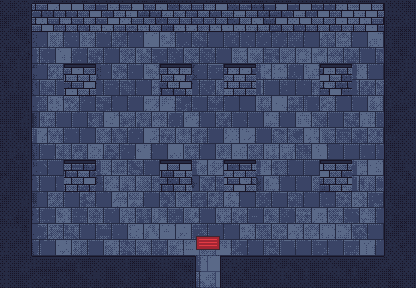
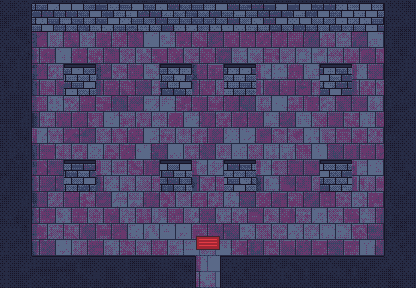
US-8B21c: arte delle sotto-aree
build_interni.py: stili cripta, tempio, grotta (roccia viva e acqua di marea
'~'), radura (erba e radici), nebbia. Arredi nuovi: sarcofago, altare, roccia,
sigillo luminoso a terra, cornice di porta, con piani inclinati verso la luce. I
sei interni dei varchi con il loro stile e i loro arredi.

Corretto un difetto di US-8B18d visto a schermo: tappeti e sigillo stavano sotto
l'immagine del pavimento. Prova a schermo in arte/revisione/varchi_contenuto.png
e interni_in_gioco.png. 993 test, validate 0.

Claude-Session: https://claude.ai/code/session_014ycMSkFAn8ixUvbSfrqtAR

Changed region(s): [[0.0625, 0.0938, 0.9375, 0.9062], [0.4688, 0.875, 0.5312, 1.0]]

diff --git a/tools/art/build_interni.py b/tools/art/build_interni.py
@@ -62,7 +62,24 @@ STILI = {
     "sotterraneo": {"pavimento": ("lastre", ["navy", "slate_d", "slate_d", "slate"]),
                     "parete": ("pietra", ["navy", "slate_d", "slate"], ["ink"]),
                     "cima": ["ink", "navy"]},
+    # sotto-aree dietro i varchi (US-8B21c)
+    "cripta": {"pavimento": ("lastre", ["navy", "slate_d", "purple_d", "slate"]),
+               "parete": ("pietra", ["purple_d", "slate_d", "slate"], ["ink"]),
+               "cima": ["ink", "navy"]},
+    "tempio": {"pavimento": ("lastre", ["brown_d", "brown", "tan", "tan"]),
+               "parete": ("pietra", ["brown_d", "brown", "tan"], ["brown_dd"]),
+               "cima": ["brown_dd", "brown_d"]},
+    "grotta": {"pavimento": ("roccia", ["navy", "slate_d", "teal_d", "slate"]),
+               "parete": ("roccia", ["teal_d", "slate_d", "slate"], ["navy"]),
+               "cima": ["ink", "navy"]},
+    "radura": {"pavimento": ("erba", ["green_d", "green_m", "green_m", "green"]),
+               "parete": ("radici", ["brown_dd", "brown_d", "brown"], ["green_d"]),
+               "cima": ["teal_d", "green_d"]},
+    "nebbia": {"pavimento": ("lastre", ["slate", "grey", "grey_l", "grey_l"]),
+               "parete": ("nebbia", ["grey", "grey_l", "white"], ["grey"]),
+               "cima": ["slate", "grey"]},
 }
+ACQUA = ["navy", "blue_d", "blue_d", "blue"]          # '~': l'acqua della marea
 
 
 def tavolozza():
@@ -112,7 +129,10 @@ def pavimento(tipo, yy, xx, rng):
         v = 0.55 + (hash2(cx, cy, 100) / 100.0 - 0.5) * 0.4 + (rumore(H, W, 3, rng) - 0.5) * 0.2
         v = np.where(((xx + o) % lato == 0) | (yy % lato == 0), v + 0.15, v)
         return np.where(((xx + o) % lato == lato - 1) | (yy % lato == lato - 1), 0.02, v)
-    # terra battuta con paglia
+    if tipo == "roccia":                                  # roccia viva, con le crepe
+        v = 0.5 + (rumore(H, W, 6, rng) - 0.5) * 0.45 + (rumore(H, W, 2, rng) - 0.5) * 0.2
+        return np.where(rumore(H, W, 4, rng) > 0.82, 0.05, v)
+    # terra battuta con paglia, erba con i fili (in interno())
     v = 0.5 + (rumore(H, W, 9, rng) - 0.5) * 0.3 + (rumore(H, W, 2, rng) - 0.5) * 0.15
     return v
 
@@ -147,6 +167,17 @@ def parete(tipo, yy, xx, rng):
         v = np.where((ly - CAPO) % bh == 0, v + 0.2, v)
         seconda = ((ly - CAPO) % bh == bh - 1) | ((xx + o) % bw == bw - 1)
         return v, seconda
+    if tipo == "roccia":                                  # parete di roccia: massi senza malta, crepe scure
+        v = 0.55 + (rumore(H, W, 4, rng) - 0.5) * 0.5 - (ly - CAPO) / T * 0.2
+        return v, rumore(H, W, 3, rng) > 0.8
+    if tipo == "radici":                                  # radici verticali intrecciate, muschio
+        o = (rumore(H, W, 6, rng) * 6).astype(int)
+        k = (xx + o) % 5
+        v = 0.2 + 0.7 * np.sin(np.pi * (k + 0.5) / 5.0) - (ly - CAPO) / T * 0.2
+        return v, rumore(H, W, 5, rng) > 0.72
+    if tipo == "nebbia":                                  # nebbia che sale: niente pietra, solo grigio che sfuma
+        v = 0.55 + (rumore(H, W, 8, rng) - 0.5) * 0.6 + (ly - CAPO) / T * 0.2
+        return v, np.zeros((H, W), bool)
     # scaffali di libri: montanti ogni 32, ripiani ogni 9, dorsi colorati di 2-3 pixel
     rip = (ly - CAPO) % 9
     v = np.where(rip >= 7, np.where(rip == 7, 0.9, 0.35), 0.1)          # ripiano: bordo in luce, poi legno
@@ -164,7 +195,8 @@ def interno(doc, rng, C):
     mappa = doc["mappa"]
     h, w = len(mappa), len(mappa[0])
     pav = np.array([[ch in PAVIMENTO for ch in r] for r in mappa])
-    muro = ~pav
+    acqua = np.array([[ch == "~" for ch in r] for r in mappa])
+    muro = ~pav & ~acqua
     vicino = np.zeros_like(pav)                           # un pavimento entro 2 caselle: cima del muro
     for dy in range(-2, 3):
         for dx in range(-2, 3):
@@ -183,6 +215,7 @@ def interno(doc, rng, C):
     yy, xx = np.mgrid[0:H, 0:W]
     cy, cx = yy // T, xx // T
     p_pav = pav[cy, cx]
+    p_acqua = acqua[cy, cx]
     p_fronte = fronte[cy, cx] & (yy % T >= CAPO)
     p_cima = muro[cy, cx] & vicino[cy, cx] & ~p_fronte
     if uscita and uscita[3] == 1:                          # porta nel muro a sud: la casella si apre
@@ -201,7 +234,7 @@ def interno(doc, rng, C):
     # --- pavimento: ombra del muro a ovest (luce da sinistra) e un filo d'ombra lungo tutti i muri ---
     tipo_p, rampa_p = st["pavimento"]
     vp = pavimento(tipo_p, yy, xx, rng)
-    non_pav = ~p_pav
+    non_pav = ~p_pav & ~p_acqua                           # i muri fanno ombra, l'acqua no
     ombra = np.zeros((H, W), bool)
     for k in range(1, 6):
         ombra |= sposta(non_pav, 0, k)
@@ -218,6 +251,16 @@ def interno(doc, rng, C):
         paglia = p_pav & (rng.rand(H, W) < 0.012) & ~ombra
         for k in range(3):
             img[sposta(paglia, 0, k) & p_pav] = C["amber"] if k == 1 else C["tan"]
+    if tipo_p == "erba":                                  # fili d'erba in piedi, la punta in luce
+        fili = p_pav & (rng.rand(H, W) < 0.02) & ~ombra
+        img[fili & p_pav] = C["green_m"]
+        img[sposta(fili, -1, 0) & p_pav] = C["green"]
+    if p_acqua.any():                                     # l'acqua: increspature e schiuma sul bordo
+        va = 0.45 + (rumore(H, W, 5, rng) - 0.5) * 0.3
+        va = np.where((yy + (rumore(H, W, 8, rng) * 6).astype(int)) % 7 == 0, va + 0.35, va)
+        colora(img, p_acqua, va, ACQUA, C)
+        riva = p_acqua & (sposta(p_pav, 1, 0) | sposta(p_pav, -1, 0) | sposta(p_pav, 0, 1) | sposta(p_pav, 0, -1))
+        img[riva] = C["grey_l"]
 
     # --- passaggi '+': una soglia di legno di traverso ---
     for y, r in enumerate(mappa):
@@ -242,7 +285,7 @@ def interno(doc, rng, C):
     p_cima_tutta = p_cima | (fronte[cy, cx] & (yy % T < CAPO))
     vc = 0.4 + (rumore(H, W, 6, rng) - 0.5) * 0.15
     colora(img, p_cima_tutta, vc, st["cima"], C)
-    dentro = p_pav | p_fronte
+    dentro = p_pav | p_fronte | p_acqua
     tocca = sposta(dentro, 1, 0) | sposta(dentro, -1, 0) | sposta(dentro, 0, 1) | sposta(dentro, 0, -1)
     img[p_cima_tutta & tocca] = C["ink"]
     tocca2 = (sposta(dentro, 2, 0) | sposta(dentro, -2, 0) | sposta(dentro, 0, 2) | sposta(dentro, 0, -2))

diff --git a/tools/art/forge3d/arredi.py b/tools/art/forge3d/arredi.py
@@ -3,13 +3,15 @@ edifici. Misure in unita' (32 per casella, size = scala); origine al centro del 
 larg x prof caselle, a terra, il davanti guarda +y (come creatures.edificio). La profondita' del modello e' divisa per
 il seno della camera (SENO_CAMERA): una casella di profondita' a schermo = 32 / 0.53 unita' nel modello.
 """
+import math
 import random
 
 from .creatures import SENO_CAMERA
 from .rig import Rig
 
 P = 1.0 / SENO_CAMERA
-ALTEZZA = {"scaffale": 56, "camino": 56, "forgia": 56, "letto": 24, "bancone": 40, "alambicco": 44}  # sopra il sedime
+ALTEZZA = {"scaffale": 56, "camino": 56, "forgia": 56, "letto": 24, "bancone": 40, "alambicco": 44,
+           "cornice_porta": 52}                                   # sopra il sedime
 MURO = 48                  # contro il muro nord niente sale oltre z 48: la cima della parete (a schermo una casella)
 
 
@@ -133,6 +135,38 @@ def arredo(kind, larg, prof, seed=1, size=1.0):
         box((W / 2 - 3, D / 2 - 4, 0.5), (0, cy, 3), "cloth_red", su)
         box((W / 2 - 7, D / 2 - 9, 0.6), (0, cy, 3.3), "cloth_yellow", su)
         box((W / 2 - 9, D / 2 - 12, 0.7), (0, cy, 3.6), "cloth_red", su)
+    elif kind == "sarcofago":                                         # cassa di pietra, coperchio scolpito
+        su = (-16, 0, 0)                                              # piani inclinati verso la luce (piatti: scuri)
+        box((W / 2 - 4, D / 2 - 8, 8), (0, cy, 8), "stone")
+        box((W / 2 - 3, D / 2 - 7, 2), (0, cy, 17.5), "stone_light", su)
+        box((W / 2 - 10, D / 2 - 12, 1.4), (0, cy, 20), "stone_light", su)
+        r.part("a", "ellipsoid", (4.5, 4, 3), (-W / 2 + 12, cy, 22), mat="bone")       # la testa scolpita
+    elif kind == "altare":                                            # blocco di pietra, drappo, due candele
+        su = (-16, 0, 0)
+        box((W / 2 - 4, D / 2 - 8, 10), (0, cy, 10), "stone_light")
+        box((W / 2 - 2, D / 2 - 6, 1.6), (0, cy, 21), "stone_light", su)
+        box((5, D / 2 - 5.5, 0.6), (0, cy, 22.8), "cloth_red", su)
+        for sx in (-1, 1):
+            cyl((1.6, 1.6, 3), (sx * (W / 2 - 8), cy - 4, 25.6), "cloth_white")
+            r.part("a", "ellipsoid", (1.2, 1.2, 2.2), (sx * (W / 2 - 8), cy - 4, 31), mat="fire")
+    elif kind == "roccia":                                            # massi con un po' di muschio
+        r.part("a", "ellipsoid", (11, 8, 9), (-2, cy, 8), mat="stone")
+        r.part("a", "ellipsoid", (7, 6, 6), (7, cy + 4, 5), mat="stone")
+        r.part("a", "ellipsoid", (6, 4, 2), (-4, cy - 2, 16), mat="leaf_dark")
+    elif kind == "sigillo":                                           # cerchio di glifi a terra che brilla
+        su = (-16, 0, 0)                                              # inclinato verso la luce: piatto esce scuro
+        for raggio, z, mat in ((28, 0.4, "glow_cyan"), (25, 0.8, "stone"), (14, 1.1, "glow_cyan"), (12, 1.4, "stone")):
+            r.part("a", "cylinder", (raggio, (raggio - 2) * P * 0.7, 0.3), (0, cy, z + 2), mat=mat, rot=su)
+        for k in range(6):
+            a = k * math.pi / 3
+            box((1.8, 1.8 * P, 0.3), (math.cos(a) * 19, cy + math.sin(a) * 18 * P * 0.7, 3.8), "glow_cyan", su)
+    elif kind == "cornice_porta":                                     # una porta di scena senza muro (Frontiera)
+        for sx in (-1, 1):
+            box((2, 3, 22), (sx * 10, cy, 22), "intonaco_bianco")
+        box((12, 3, 2), (0, cy, 45), "intonaco_bianco")
+        box((8, 1, 21), (0, cy, 22), "shadow_mat")
+        for sx in (-1, 1):
+            box((1.0, 1.2, 21), (sx * 7.6, cy + 0.4, 22), "glow_purple")
     else:
         raise ValueError(f"arredo sconosciuto: {kind}")
     return r

diff --git a/CLAUDE.md b/CLAUDE.md
@@ -302,13 +302,13 @@ PR #5). Il dettaglio di ogni fase e' in `progress.txt` e nei PRD di `006_PRD/`.
   pareti, mondo generato (seed 6) con modalita' luminosa/cupa, mondo unico nel gioco (US-8B12..g:
   caricatore, regione dalla posizione, NPC, collisioni, sottosuolo, contenuto dei layout), libro (US-8B73),
   edifici di citta', villaggi e torri con le porte verso i 14 interni (US-8B18a/b), interni disegnati e
-  arredati (US-8B18c/d), varchi delle sotto-aree come ingressi (US-8B21a).
+  arredati (US-8B18c/d), varchi delle sotto-aree come ingressi con il loro contenuto e la loro arte (US-8B21a/b/c).
   PRD `prd-fase-8b-arte.md`, story aperte in `prd.json`.
 - Fase 12 — Atto II/III e Mondo vivo: **PIANIFICATA**. PRD `prd-fase-12-atto-2-3.md`,
   `prd-fase-12-mondo-vivo.md`.
 
-**Lavoro corrente** (vedi `006_PRD/prossimi-passi.md` e `prd.json`): varchi delle sotto-aree come ingressi
-(US-8B21a/b), poi barca (US-8B91), volo (US-8B93) e accesso alla Frontiera (US-8B95), decisi il 2026-10-26.
+**Lavoro corrente** (vedi `006_PRD/prossimi-passi.md` e `prd.json`): barca (US-8B91), volo (US-8B93) e accesso
+alla Frontiera (US-8B95), decisi il 2026-10-26.
 
 ## Decisioni prese
 

diff --git a/006_PRD/prossimi-passi.md b/006_PRD/prossimi-passi.md
@@ -29,9 +29,9 @@ sotto-aree, le **icone** degli oggetti, e nessuno sa ancora **volare**.
 
 ## 2. Ordine delle story
 
-1. **US-8B21c Arte delle sotto-aree**: stili e arredi nuovi per i sei interni dei varchi. Fatte (2026-10-26) la
-   US-8B21a (i sei varchi sono ingressi sulla mappa: `regions.json` gating[].varco, `mondo.gd crea_varchi`, disegni
-   da `esporta_mondo.py --varchi`) e la US-8B21b (il contenuto delle zone dei varchi sta negli interni).
+1. Fatte il 2026-10-26 le US-8B21a/b/c: i sei varchi sono ingressi sulla mappa (`regions.json` gating[].varco,
+   `mondo.gd crea_varchi`, disegni da `esporta_mondo.py --varchi`), il contenuto delle loro zone sta negli interni,
+   gli interni hanno l'arte del loro luogo.
 2. **US-8B91 Barca dal porto** (molo di Mirwada, in barca l'acqua si attraversa), **US-8B93 Volo** (si sblocca
    con una chiave del mondo, per tutti i Pathway), **US-8B95 Accesso alla Frontiera** (barca, volo, o soglia nel
    faro con una chiave trovata nel mondo; resta il gating di sequenza). Tutto deciso il 2026-10-26.
